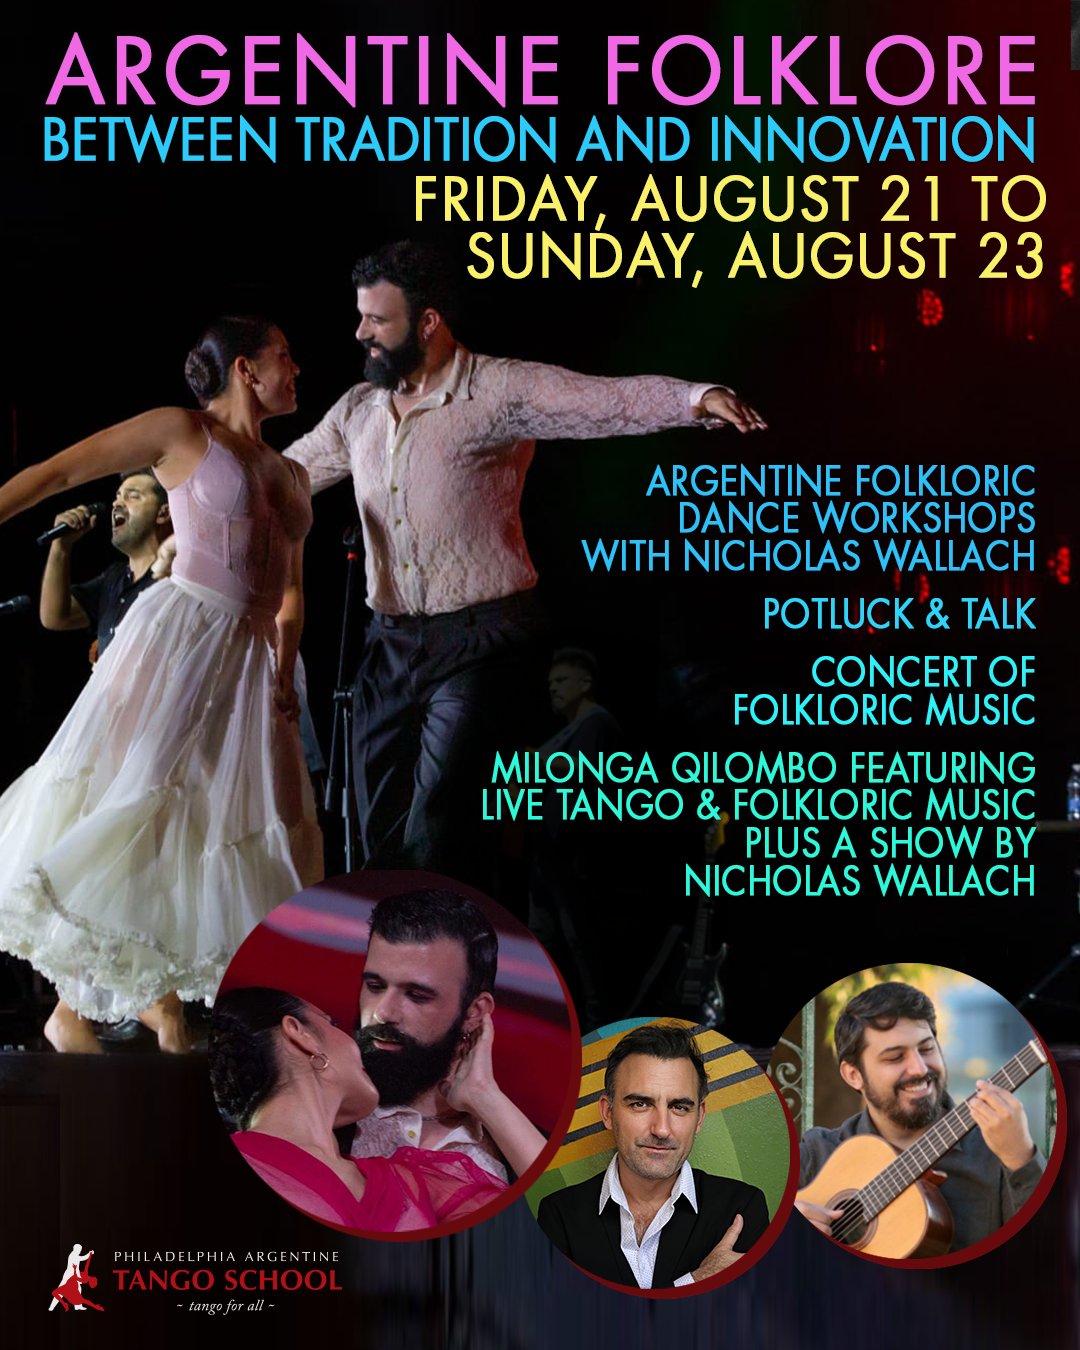
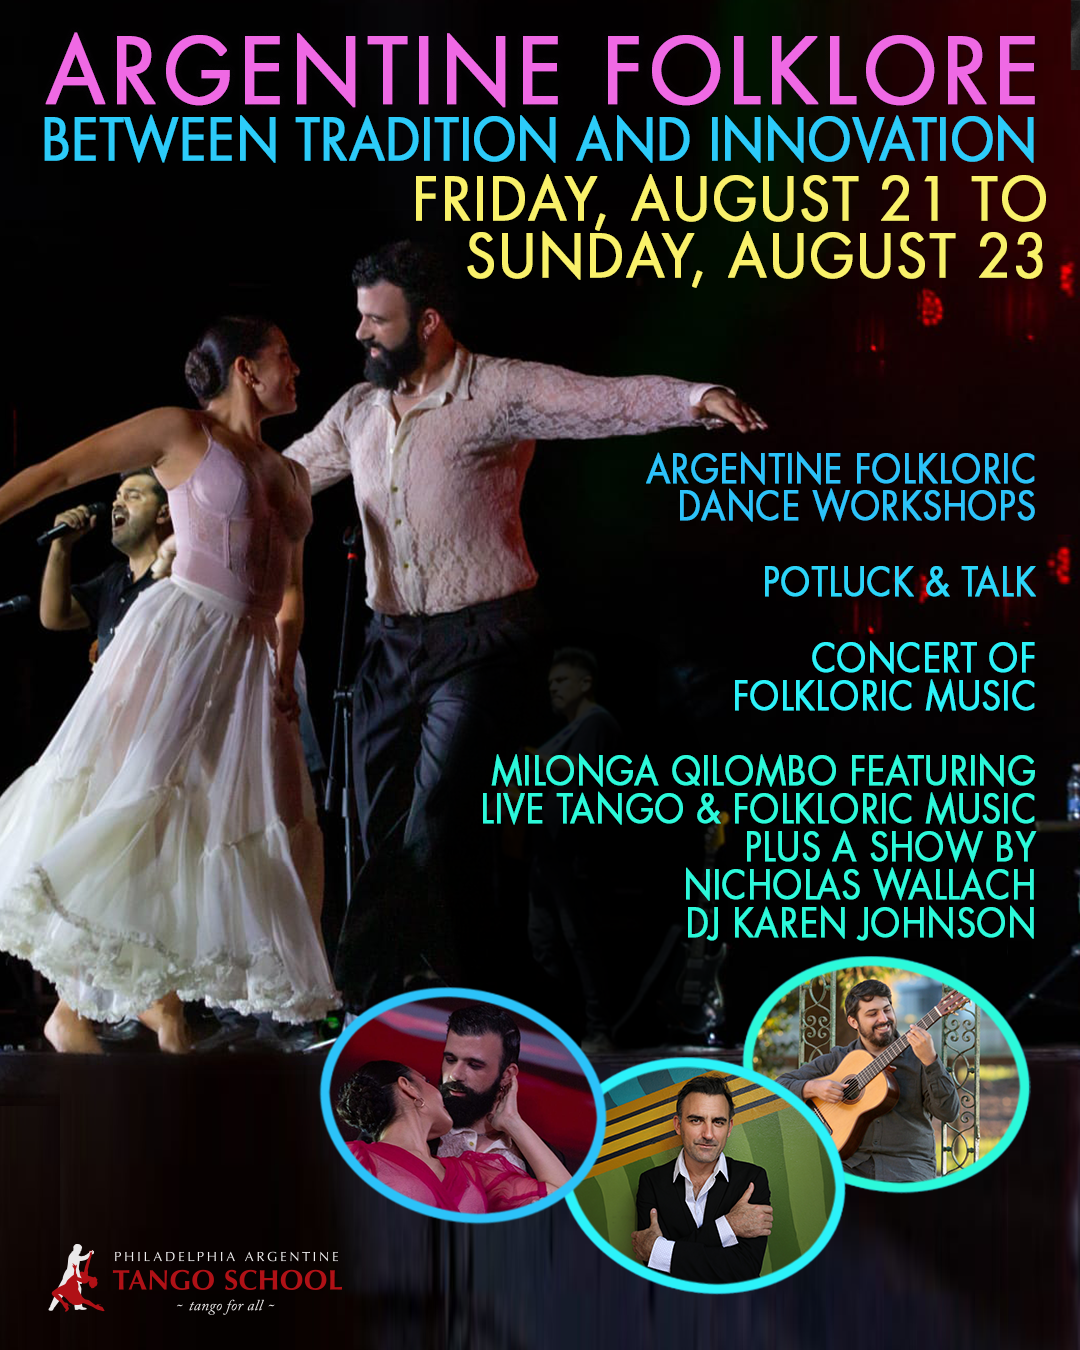
Remove passed Sridhar Hannenhalli milonga teaser, update folklore flyer image
- Remove the July 25 Milonga Qilombo teaser from the homepage and
  milongas-practicas.html now that the event has passed
- Replace the Argentine Folklore weekend flyer image with the updated
  promotional graphic (same filename, used site-wide)

Changed region(s): [[0.1833, 0.3111, 1.0, 0.9644]]

diff --git a/website/milongas-practicas.html b/website/milongas-practicas.html
@@ -95,7 +95,7 @@ __Philadelphia Argentine Tango School__
 
         <!-- Teasers Section -->
         
-        <div id="page-teasers" data-teasers='[{"headline": "Milonga Qilombo with DJ Sridhar Hannenhalli", "content": "### Saturday, July 25\nWe&#39;re so happy to have ex-Philadelphian __Sridhar Hannenhalli__ back to DJ our July Milonga Qilombo.  Come out to hear Sridhar&#39;s beautifully constructed tandas, and to give him some Philly love.  The pre-milonga class will be taught by Meredith & Ignacio.\n\n__8:30-9:30 pm:__ All Levels Pre-Milonga Class - Meredith & Ignacio\n__9:30 pm-2 am:__ Milonga Qilombo with DJ Sridhar Hannenhalli\n\nPre-registration has ended, but you are welcome to pay at the door.\n\n__Pricing at the door:__\nClass + Milonga: $35\nMilonga only: $25\n\n__Parking:__ Remember that we have [free parking](/parking-advice) available at the Shissler Recreation Center at 1800 Blair St.", "videoUrl": "", "linkText": "", "link": "", "image": {"url": "https://res.cloudinary.com/philly-tango/image/upload/f_auto/q_auto/v1783472199/quilombo0726_cuadrado_aodefv.png", "localPath": "/images/quilombo0726_cuadrado_aodefv.png", "title": "quilombo0726_cuadrado_aodefv", "width": 1080, "height": 1080}}, {"headline": "Argentine Folklore: Between Tradition and Innovation", "content": "### Friday, August 21 to Sunday, August 23\nPlease join us for a special weekend celebrating Argentine Folkloric Dance & Music from Friday, August 21 through Sunday, August 23.  The event features Dancer & Performer Nicholas Wallach, as well as Guitarist Alejo de los Reyes and Pianist Emiliano Messiez.  The event coincides with International Folklore Day, which is celebrated on Saturday, August 22.\n\n__The weekend includes:__\n- Potluck Dinner & Talk by Nicholas Wallach\n- Argentine Folkloric Dance Workshops with Nicholas Wallach\n- Concert of Argentine Folkloric Music & Tango\n- LIVE MUSIC Milonga Qilombo with a SHOW by Nicholas Wallach\n\nFull weekend pricing starts at $210 with pre-registration.", "videoUrl": "", "linkText": "See full schedule & pricing...", "link": "workshops#argentine-folklore-weekend", "image": {"url": "/images/nicholas-wallach-folklore-weekend-aug2026.png", "localPath": "/images/nicholas-wallach-folklore-weekend-aug2026.png", "title": "nicholas-wallach-folklore-weekend-aug2026", "width": 1080, "height": 1350}}, {"headline": "A Weekend with Martin & Maurizio", "content": "### August 29-30\n__Martin Maldonado & Maurizio Ghella__, both from Argentina and now based in Vienna, Austria, are internationally celebrated representatives of authentic Argentine tango tradition. We&#39;re thrilled to welcome them back to Philadelphia for a weekend of workshops, private lessons, and a special Milonga Qilombo with performance.\n\n__The weekend includes:__\n- Workshops with Martin & Maurizio\n- Pre-Milonga Class & Milonga Qilombo with a SHOW by Martin & Maurizio\n- Private Lessons available Friday through Sunday\n\nFull weekend pricing starts at $210 with pre-registration.", "videoUrl": "", "linkText": "See full schedule & pricing...", "link": "workshops#martin-maldonado-maurizio-ghella", "image": {"url": "/images/martin-maurizio-weekend-aug2026.png", "localPath": "/images/martin-maurizio-weekend-aug2026.png", "title": "martin-maurizio-weekend-aug2026", "width": 1080, "height": 1350}}]'>
+        <div id="page-teasers" data-teasers='[{"headline": "Argentine Folklore: Between Tradition and Innovation", "content": "### Friday, August 21 to Sunday, August 23\nPlease join us for a special weekend celebrating Argentine Folkloric Dance & Music from Friday, August 21 through Sunday, August 23.  The event features Dancer & Performer Nicholas Wallach, as well as Guitarist Alejo de los Reyes and Pianist Emiliano Messiez.  The event coincides with International Folklore Day, which is celebrated on Saturday, August 22.\n\n__The weekend includes:__\n- Potluck Dinner & Talk by Nicholas Wallach\n- Argentine Folkloric Dance Workshops with Nicholas Wallach\n- Concert of Argentine Folkloric Music & Tango\n- LIVE MUSIC Milonga Qilombo with a SHOW by Nicholas Wallach\n\nFull weekend pricing starts at $210 with pre-registration.", "videoUrl": "", "linkText": "See full schedule & pricing...", "link": "workshops#argentine-folklore-weekend", "image": {"url": "/images/nicholas-wallach-folklore-weekend-aug2026.png", "localPath": "/images/nicholas-wallach-folklore-weekend-aug2026.png", "title": "nicholas-wallach-folklore-weekend-aug2026", "width": 1080, "height": 1350}}, {"headline": "A Weekend with Martin & Maurizio", "content": "### August 29-30\n__Martin Maldonado & Maurizio Ghella__, both from Argentina and now based in Vienna, Austria, are internationally celebrated representatives of authentic Argentine tango tradition. We&#39;re thrilled to welcome them back to Philadelphia for a weekend of workshops, private lessons, and a special Milonga Qilombo with performance.\n\n__The weekend includes:__\n- Workshops with Martin & Maurizio\n- Pre-Milonga Class & Milonga Qilombo with a SHOW by Martin & Maurizio\n- Private Lessons available Friday through Sunday\n\nFull weekend pricing starts at $210 with pre-registration.", "videoUrl": "", "linkText": "See full schedule & pricing...", "link": "workshops#martin-maldonado-maurizio-ghella", "image": {"url": "/images/martin-maurizio-weekend-aug2026.png", "localPath": "/images/martin-maurizio-weekend-aug2026.png", "title": "martin-maurizio-weekend-aug2026", "width": 1080, "height": 1350}}]'>
           <!-- Teasers will be rendered by JavaScript -->
         </div>
         
